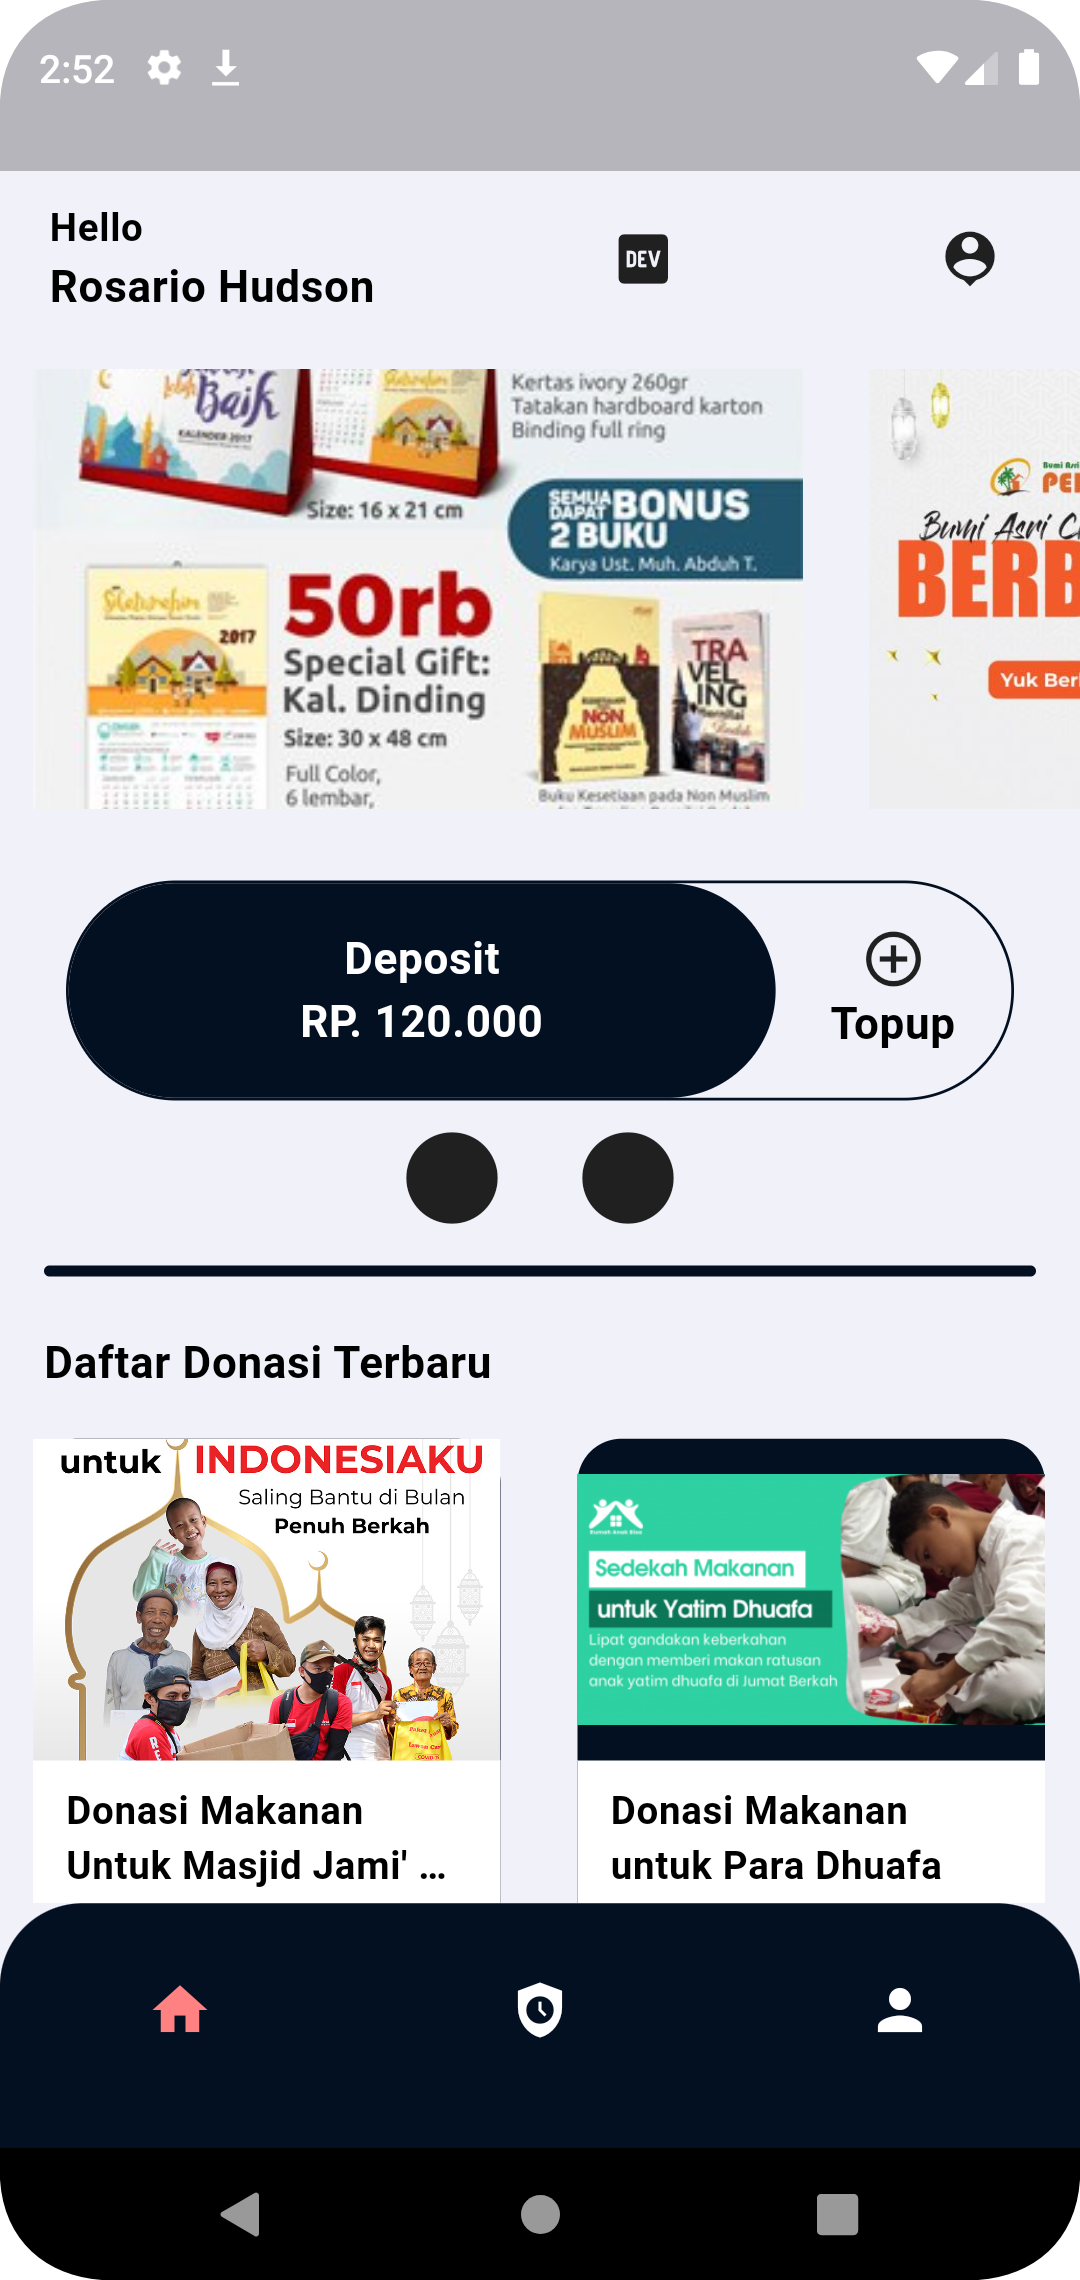
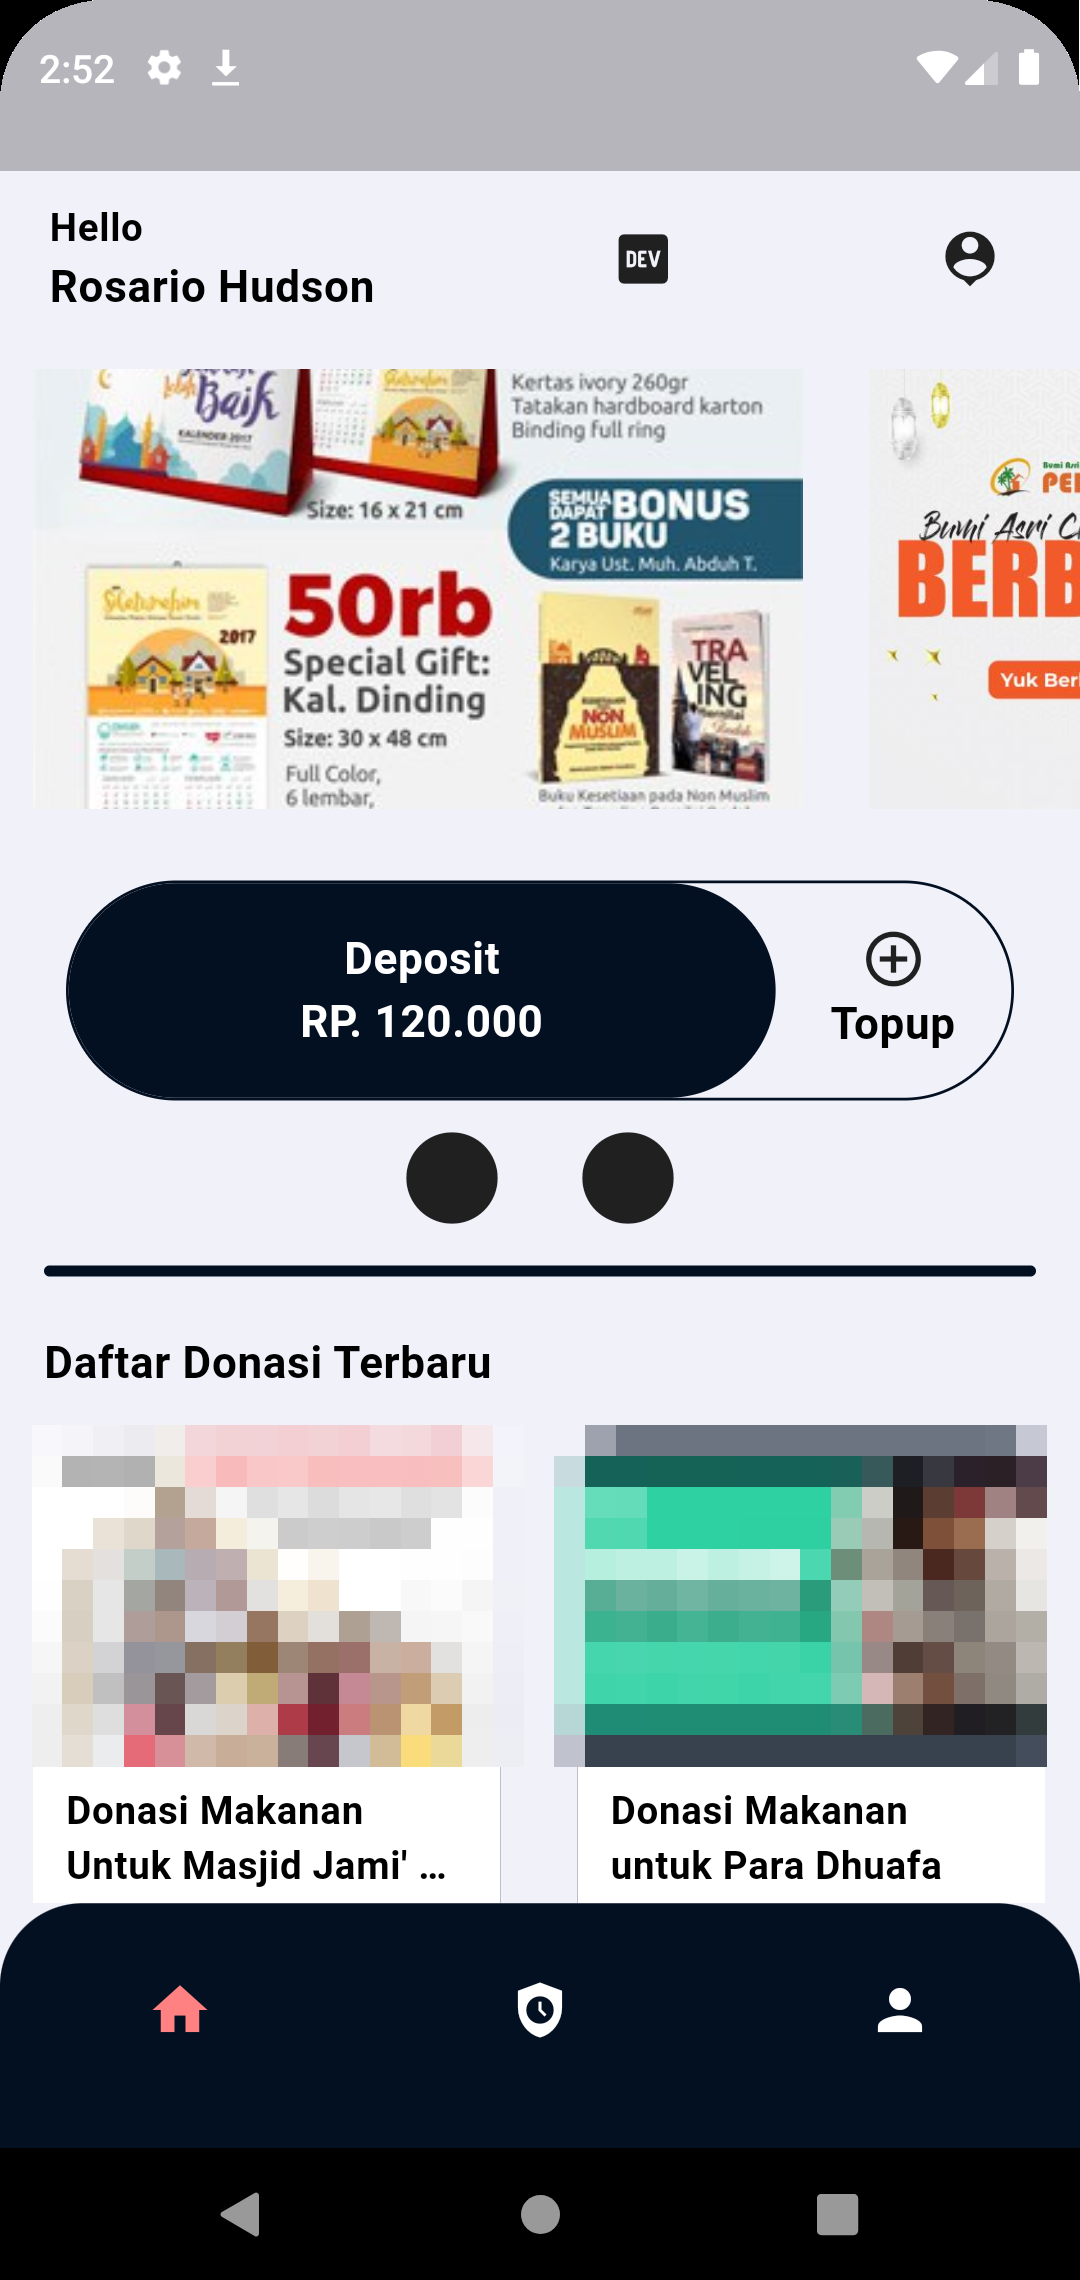
Hide faces in Donice screenshots, phone tech row, contact number on project pages
- Donice App seed screenshots 01, 02 and 04 showed photos of real people in
  donation banners; those areas are now pixelated (project rule: no personal
  data in screenshots).
- Hero on small screens (under 30rem), where the 3D tiles don't fit: the same
  tech stack shows as a row of icons under the phone, with names for screen
  readers.
- Project pages: the contact section keeps its home page number (matches the
  header menu) instead of continuing after the project's own sections.

diff --git a/resources/views/sections/hero.blade.php b/resources/views/sections/hero.blade.php
@@ -15,11 +15,13 @@
     // Skills with a brand icon float as 3D tiles around the phone (resources/js/scenes/hero-stack.js).
     // Taken in turns from each skill group (Admin → Skills order), so every group is represented.
     // Relative URLs: the icons are drawn into a WebGL canvas, which must stay same-origin.
-    $iconsPerGroup = $skillGroups->map(fn ($g) => $g->skills->map(fn ($s) => \App\Support\Icon::slugFor($s->name, $s->icon))->filter()->values());
-    $techIcons = collect(range(0, max(0, (int) $iconsPerGroup->max(fn ($icons) => $icons->count()) - 1)))
+    $iconsPerGroup = $skillGroups->map(fn ($g) => $g->skills
+        ->map(fn ($s) => ['name' => $s->name, 'slug' => \App\Support\Icon::slugFor($s->name, $s->icon)])
+        ->filter(fn ($t) => $t['slug'])->values());
+    $techStack = collect(range(0, max(0, (int) $iconsPerGroup->max(fn ($icons) => $icons->count()) - 1)))
         ->flatMap(fn ($i) => $iconsPerGroup->map(fn ($icons) => $icons[$i] ?? null))
-        ->filter()->unique()->take(10)
-        ->map(fn ($slug) => '/icons/simple/'.$slug.'.svg')->values();
+        ->filter()->unique('slug')->take(10)->values();
+    $techIcons = $techStack->map(fn ($t) => '/icons/simple/'.$t['slug'].'.svg');
 @endphp
 <section class="relative isolate overflow-hidden" aria-labelledby="hero-title">
     {{-- Background + 3D particles mount (stage 4) --}}
@@ -84,6 +86,16 @@
                     <span class="font-semibold" data-hero-label-title aria-live="polite">{{ $reelLabels[0]['title'] }}</span>
                     <x-heroicon-o-arrow-right class="size-4 text-primary-fg transition group-hover:translate-x-0.5" aria-hidden="true" />
                 </a>
+            @endif
+            {{-- Small screens: the 3D tiles don't fit beside the phone there, so the same stack shows as a row. --}}
+            @if ($techStack->isNotEmpty())
+                <ul class="mt-5 flex max-w-xs flex-wrap justify-center gap-2 min-[30rem]:hidden" aria-label="{{ __('site.hero.stack') }}">
+                    @foreach ($techStack as $tech)
+                        <li class="grid size-11 place-items-center rounded-md border border-line bg-surface text-accent-fg" title="{{ $tech['name'] }}">
+                            {{ \App\Support\Icon::svg($tech['slug'], 'size-5') }}<span class="sr-only">{{ $tech['name'] }}</span>
+                        </li>
+                    @endforeach
+                </ul>
             @endif
         </div>
     </div>

diff --git a/tests/Feature/CustomizableContentTest.php b/tests/Feature/CustomizableContentTest.php
@@ -88,10 +88,13 @@ class CustomizableContentTest extends TestCase
         $devops->skills()->create(['name' => 'C#', 'sort_order' => 1]);
         $devops->skills()->create(['name' => 'GitHub', 'sort_order' => 2]);
 
-        $icons = json_decode(html_entity_decode(str($this->get('/')->getContent())->match('/data-tech-icons="([^"]+)"/')->toString()), true);
+        $response = $this->get('/');
+        $icons = json_decode(html_entity_decode(str($response->getContent())->match('/data-tech-icons="([^"]+)"/')->toString()), true);
 
         // In turns per group, one tile per icon (Firestore shares Firebase's), hidden skills left out, C# as .NET.
         $this->assertSame(['/icons/simple/flutter.svg', '/icons/simple/dotnet.svg', '/icons/simple/firebase.svg', '/icons/simple/github.svg'], $icons);
+        // Small screens get the same stack as a row of icons with names for screen readers.
+        $response->assertSeeInOrder(['aria-label="Tech stack"', 'sr-only">Flutter<', 'sr-only">C#<', 'sr-only">Firebase<', 'sr-only">GitHub<'], false);
     }
 
     public function test_home_shows_featured_projects_and_all_projects_page_shows_every_published_one(): void

diff --git a/resources/views/pages/project.blade.php b/resources/views/pages/project.blade.php
@@ -216,10 +216,14 @@
     </div>
 
     @php
-        $contactSection = app(\App\Support\Site::class)->sections()->firstWhere('type', 'contact');
+        $homeSections = app(\App\Support\Site::class)->sections();
+        $contactSection = $homeSections->firstWhere('type', 'contact');
     @endphp
     @if ($contactSection)
-        @include('sections.contact', ['section' => $contactSection])
+        {{-- Same number as on the home page and in the header menu, not the next one after this page's sections. --}}
+        <div style="counter-set: section {{ $homeSections->search(fn ($s) => $s->is($contactSection)) }}">
+            @include('sections.contact', ['section' => $contactSection])
+        </div>
     @endif
     <x-site.lightbox />
 </x-layouts.site>

diff --git a/lang/en/site.php b/lang/en/site.php
@@ -78,6 +78,7 @@ return [
     'hero' => [
         'now_showing' => 'Now showing',
         'scroll' => 'Scroll',
+        'stack' => 'Tech stack',
     ],
     'skills' => [
         'hint' => 'Tap a skill to see the projects that use it.',
